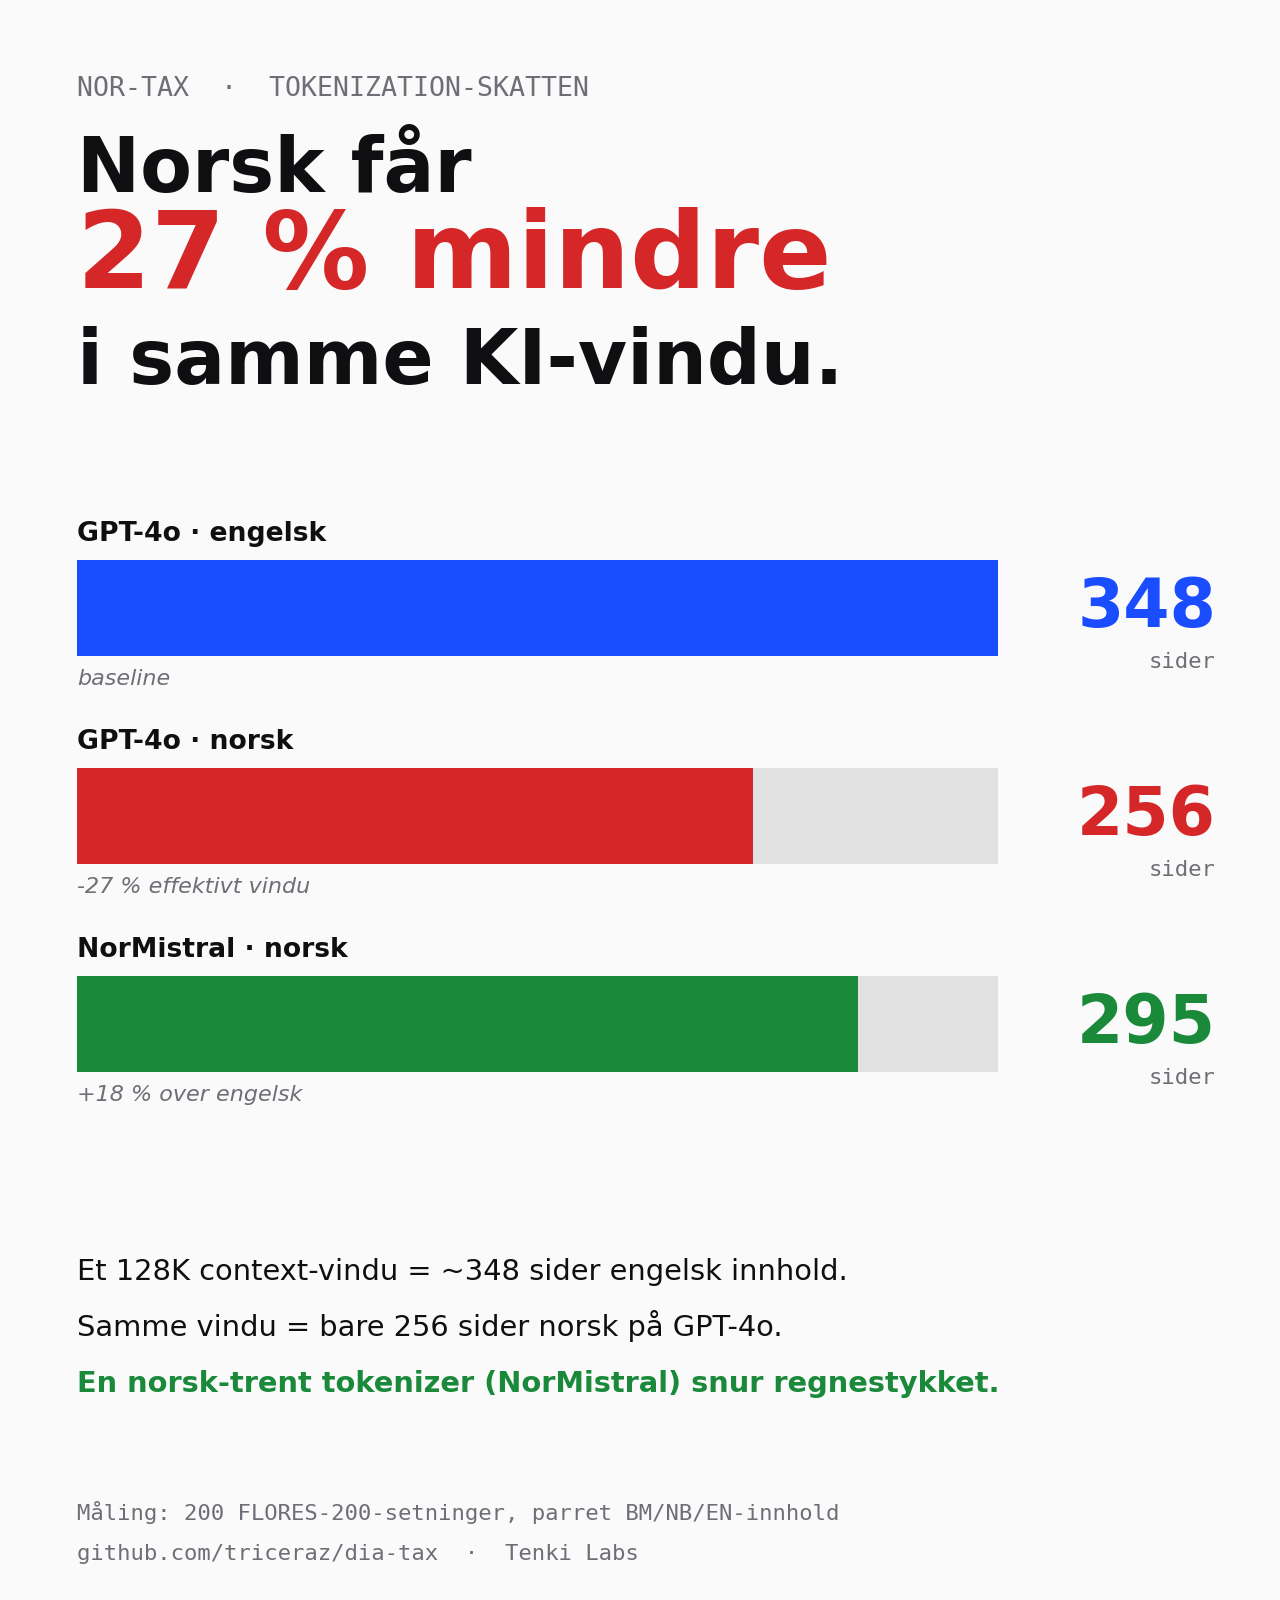
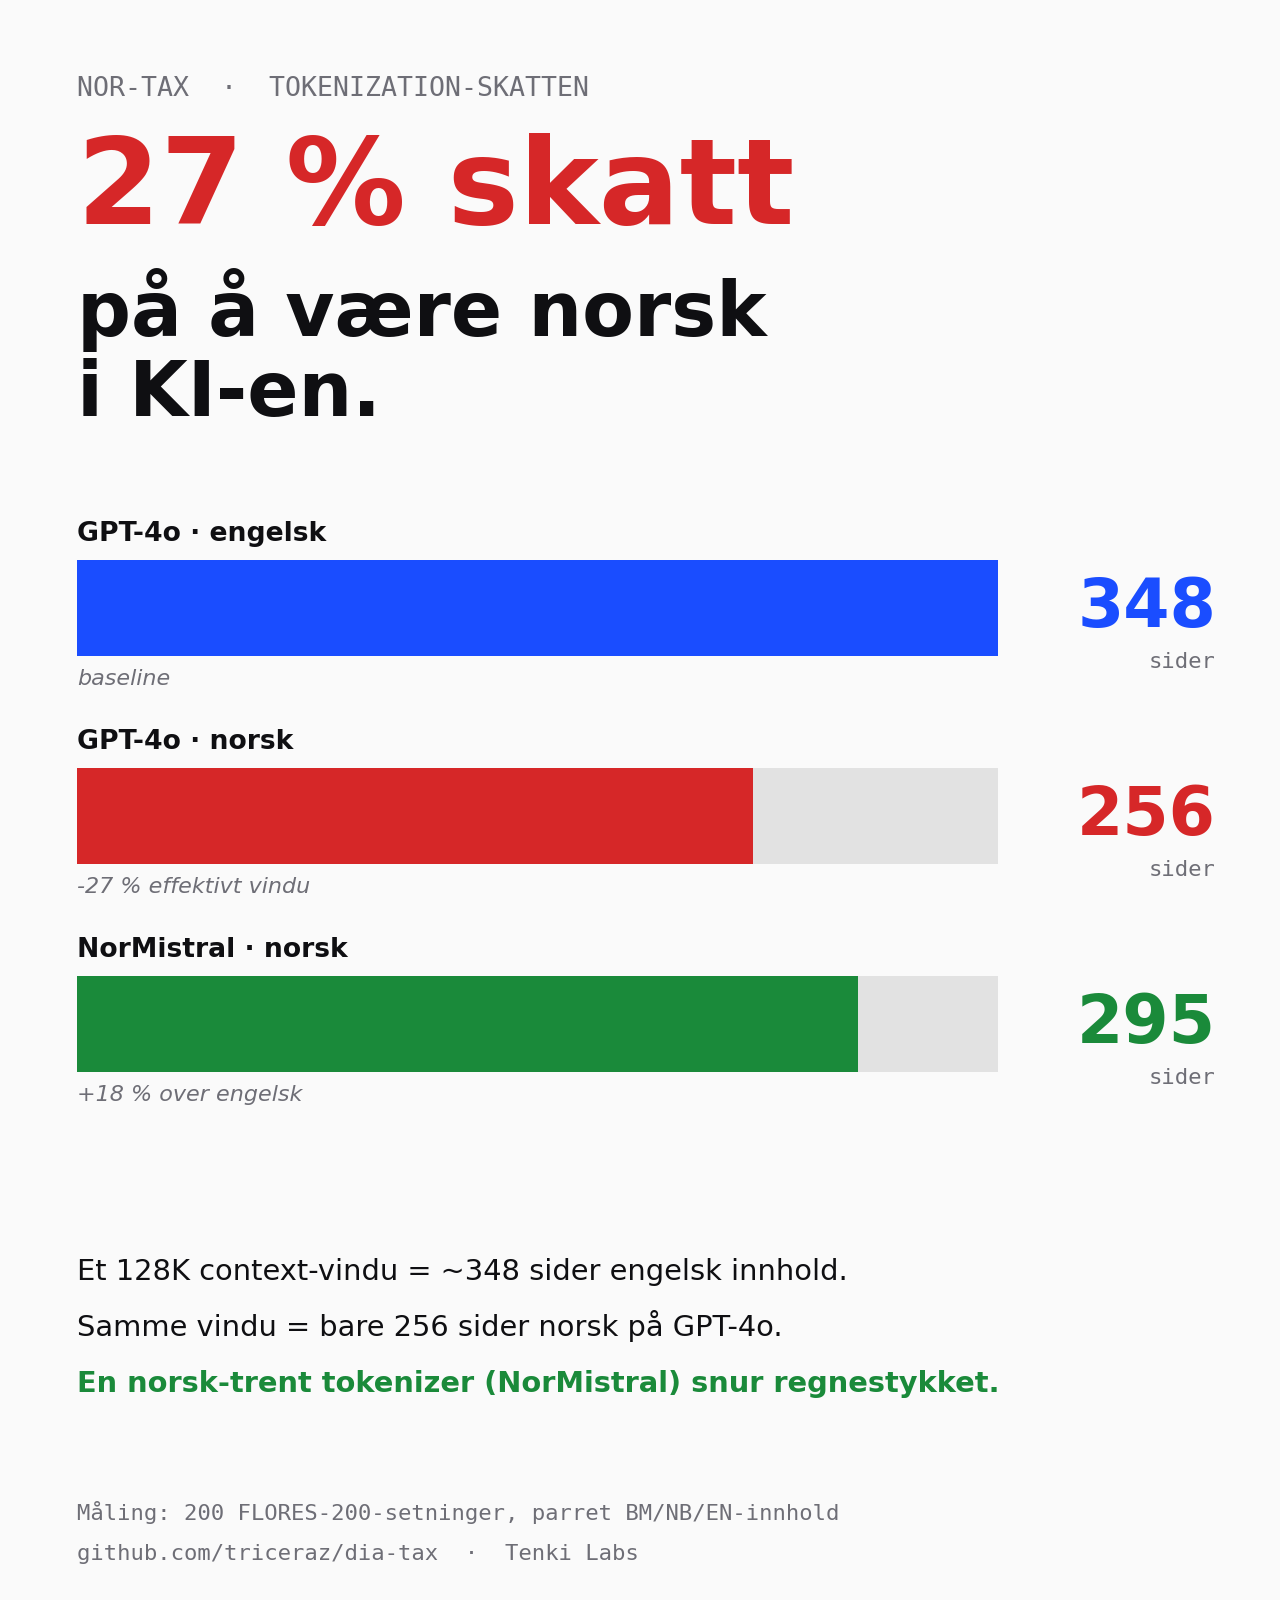
linkedin: headline til '27 % skatt på å være norsk i KI-en'

Changed region(s): [[0.0625, 0.0625, 0.6562, 0.2812]]

diff --git a/src/05_linkedin_figure.py b/src/05_linkedin_figure.py
@@ -70,20 +70,20 @@ def main() -> None:
         fontweight=500,
     )
 
-    # Headline — percentage-based, computed from the data
+    # Headline — the NOR-TAX framing
     loss_pct = int(round((en_pages - nb_pages) / en_pages * 100))
     ax.text(
-        0.06, 0.88, "Norsk får",
+        0.06, 0.86, f"{loss_pct} % skatt",
+        fontsize=54, color=COL_RED, fontweight=700,
+        family="DejaVu Sans",
+    )
+    ax.text(
+        0.06, 0.79, "på å være norsk",
         fontsize=34, color=COL_INK, fontweight=600,
         family="DejaVu Sans",
     )
     ax.text(
-        0.06, 0.82, f"{loss_pct} % mindre",
-        fontsize=48, color=COL_RED, fontweight=700,
-        family="DejaVu Sans",
-    )
-    ax.text(
-        0.06, 0.76, "i samme KI-vindu.",
+        0.06, 0.74, "i KI-en.",
         fontsize=34, color=COL_INK, fontweight=600,
         family="DejaVu Sans",
     )
